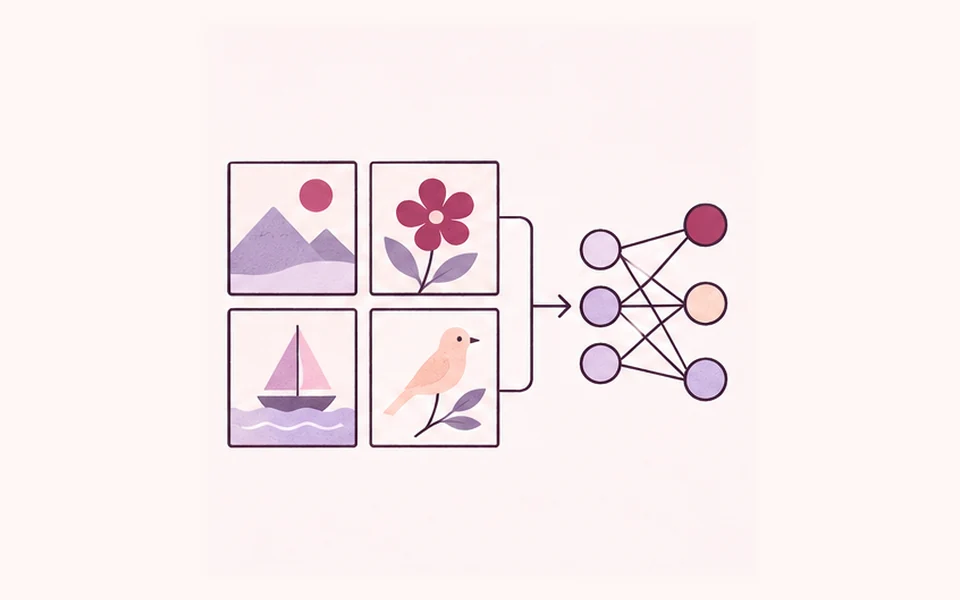
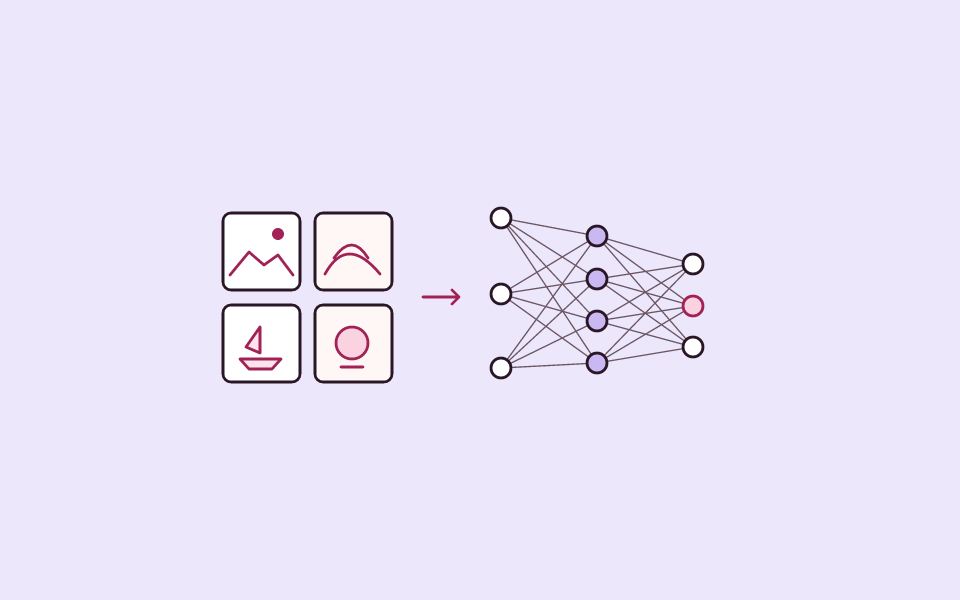
Reemplaza las portadas por diagramas editoriales

Changed region(s): [[0.2188, 0.24, 0.7812, 0.75]]

diff --git a/src/data/projects.ts b/src/data/projects.ts
@@ -9,7 +9,7 @@ export const projects: readonly Project[] = [
     slug: "imprenta-fuentes",
     artwork: {
       src: "images/illustrations/imprenta-fuentes.webp",
-      alt: "Ilustración conceptual de hojas de impresión con una lista de comprobación y una lupa.",
+      alt: "Ilustración conceptual de hojas de impresión junto a una lista de comprobación.",
     },
     title: "Sistema de Gestión Imprenta Fuentes · QA Lead",
     period: "2026",
